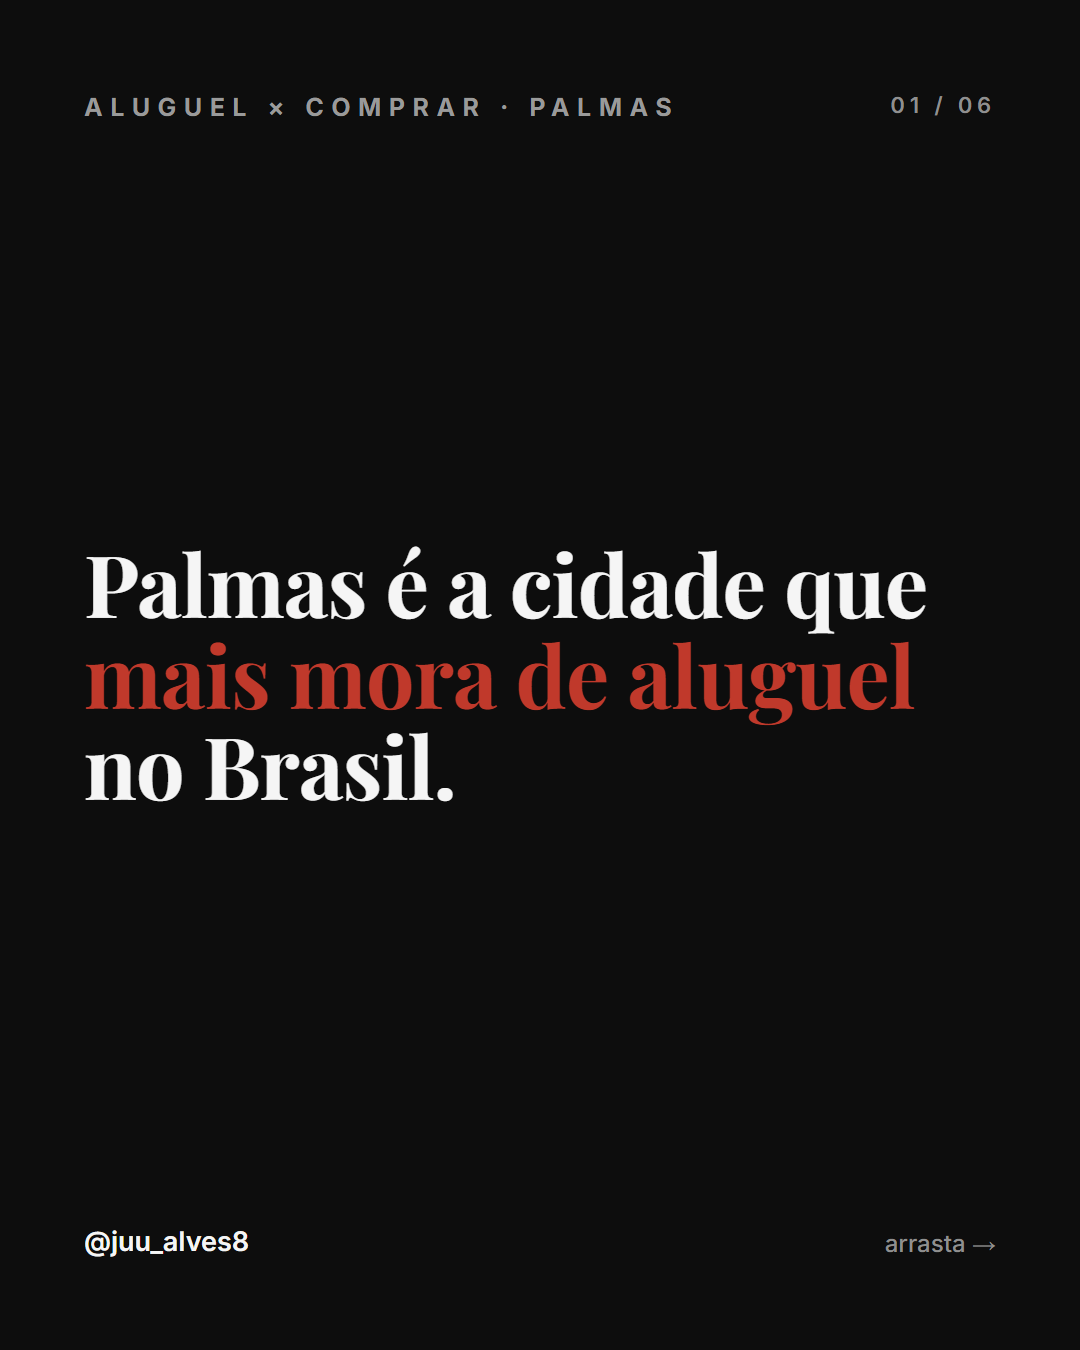
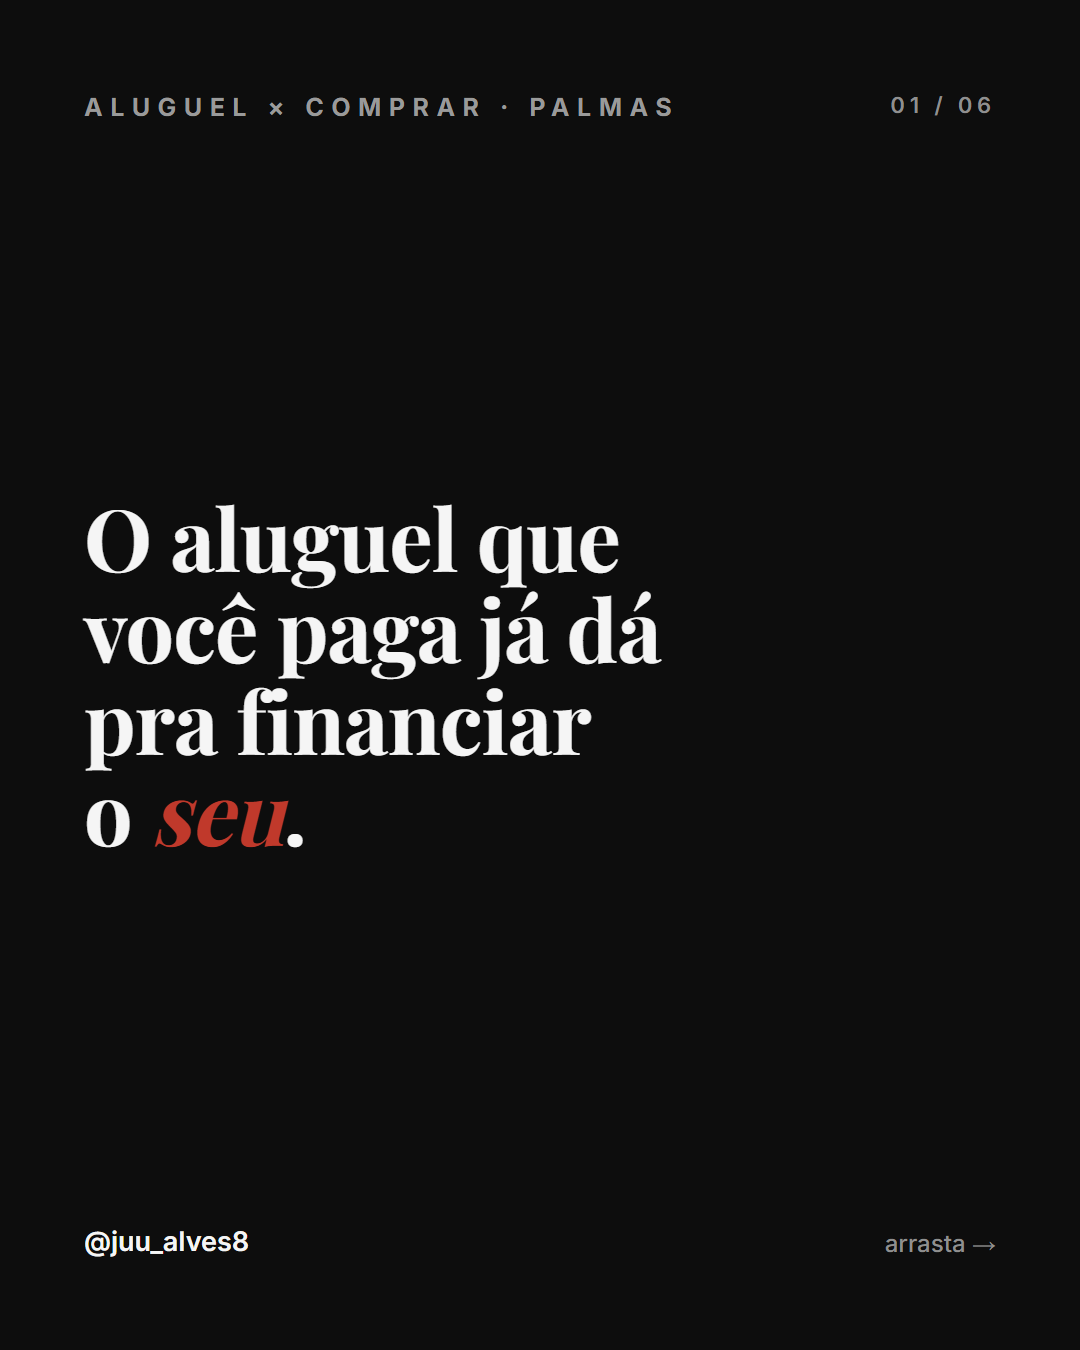
Carrossel #2 (planta pouca entrada) + Post #3 (mercado/barra de busca) + capa v1 revertida + pagina novos.html

Changed region(s): [[0.0611, 0.3733, 0.8556, 0.6533]]

diff --git a/marketing/site/carrossel/novos.html b/marketing/site/carrossel/novos.html
@@ -1,0 +1,66 @@
+<!DOCTYPE html>
+<html lang="pt-BR">
+<head>
+<meta charset="UTF-8">
+<meta name="viewport" content="width=device-width, initial-scale=1.0">
+<title>Novos conteúdos — Ju</title>
+<style>
+  *{margin:0;padding:0;box-sizing:border-box}
+  body{background:#0a0a0a;color:#f5f5f5;font-family:-apple-system,Segoe UI,Roboto,sans-serif;padding:34px 16px 80px}
+  .wrap{max-width:920px;margin:0 auto}
+  h1{font-size:23px;font-weight:700;text-align:center}
+  .top{color:#8f8f8f;font-size:13.5px;text-align:center;margin:6px auto 30px;max-width:560px;line-height:1.5}
+  .opt{background:#111;border:1px solid #222;border-radius:18px;padding:22px 16px;margin-bottom:26px}
+  .opt h2{font-size:18px;font-weight:700;margin-bottom:2px}
+  .opt .tag{font-size:12px;color:#8f8f8f;font-family:ui-monospace,Menlo,Consolas,monospace;margin-bottom:14px}
+  .feed{display:flex;gap:12px;overflow-x:auto;padding-bottom:14px;scroll-snap-type:x mandatory}
+  .feed a{flex:0 0 auto;scroll-snap-align:center;line-height:0}
+  .feed img{height:460px;width:auto;border-radius:12px;border:1px solid #262626;box-shadow:0 14px 40px rgba(0,0,0,.5)}
+  .single{display:flex;justify-content:center}
+  .single img{width:330px;border-radius:14px;border:1px solid #262626;box-shadow:0 18px 50px rgba(0,0,0,.5)}
+  .leg{font-size:13.5px;color:#cfcfcf;line-height:1.65;white-space:pre-wrap;background:#0d0d0d;border:1px solid #1f1f1f;border-radius:10px;padding:14px;margin-top:14px}
+  .hint{font-size:12px;color:#666;text-align:center;margin-top:8px}
+</style>
+</head>
+<body>
+<div class="wrap">
+  <h1>Novos conteúdos pra você ver</h1>
+  <p class="top">Carrossel #2 (comprar na planta) e o post de mercado. Toca e segura numa imagem pra salvar.</p>
+
+  <div class="opt">
+    <h2>Carrossel #2 — Comprar na planta com pouca entrada</h2>
+    <div class="tag">storytelling · 6 slides · pra quem quer morar</div>
+    <div class="feed">
+      <a href="planta/slide-01.png"><img src="planta/slide-01.png"></a>
+      <a href="planta/slide-02.png"><img src="planta/slide-02.png"></a>
+      <a href="planta/slide-03.png"><img src="planta/slide-03.png"></a>
+      <a href="planta/slide-04.png"><img src="planta/slide-04.png"></a>
+      <a href="planta/slide-05.png"><img src="planta/slide-05.png"></a>
+      <a href="planta/slide-06.png"><img src="planta/slide-06.png"></a>
+    </div>
+    <div class="leg">Comprar na planta assusta — até você entender como funciona.
+
+A entrada é parcelada durante a obra, os reforços entram em datas que você já sabe (13º, férias, bônus), e o imóvel ainda valoriza até a chave. Dá pra começar com bem menos do que parece.
+
+Quer ver como ficaria no seu caso? Toca no link da bio que eu te explico o passo a passo, sem compromisso.
+
+Manda esse pra quem acha que comprar é impossível. 👉
+
+#imoveispalmas #palmasto #comprarnaplanta #primeiroimovel #financiamento #palmastocantins</div>
+  </div>
+
+  <div class="opt">
+    <h2>Post #3 — Mercado de Palmas (investidor)</h2>
+    <div class="tag">post único · barra de busca · pra quem quer investir</div>
+    <div class="single"><a href="post.png"><img src="post.png"></a></div>
+    <div class="leg">Dinheiro parado perde. Imóvel em Palmas, não.
+
+A capital que mais aluga no Brasil tem demanda sobrando: 600+ imóveis no Airbnb com procura o ano todo, e bairros que valorizaram 9–14% em 2024. Quem tem imóvel ganha dos dois lados — valorização e renda.
+
+Pensando em parar de deixar dinheiro parado? Toca no link da bio ou me chama no direct — te mostro as melhores oportunidades de Palmas.
+
+#investimentoimobiliario #palmasto #imoveispalmas #airbnb #rendapassiva #palmastocantins</div>
+  </div>
+</div>
+</body>
+</html>

diff --git a/marketing/conteudo/Carrossel&post/feitos-claude/post-mercado-palmas-2026-06-16/post.html b/marketing/conteudo/Carrossel&post/feitos-claude/post-mercado-palmas-2026-06-16/post.html
@@ -1,0 +1,43 @@
+<!DOCTYPE html><html lang="pt-BR"><head><meta charset="UTF-8">
+<link href="https://fonts.googleapis.com/css2?family=Playfair+Display:wght@600;700;800&family=Inter:wght@300;400;500;600;700&display=swap" rel="stylesheet">
+<style>
+  *{margin:0;padding:0;box-sizing:border-box}
+  html,body{width:1080px;height:1350px;overflow:hidden}
+  .post{width:1080px;height:1350px;background:#0D0D0D;color:#F5F5F5;padding:96px 84px;display:flex;flex-direction:column;justify-content:space-between;font-family:'Inter',sans-serif;-webkit-font-smoothing:antialiased}
+  .kicker{font-size:24px;font-weight:700;letter-spacing:.3em;text-transform:uppercase;color:#9a9a9a}
+  .searchbar{display:flex;align-items:center;gap:18px;background:#F5F5F5;border-radius:60px;padding:26px 34px;margin-top:26px}
+  .searchbar svg{width:34px;height:34px;flex-shrink:0}
+  .searchbar .q{font-size:30px;font-weight:600;color:#141414;letter-spacing:.01em}
+  .searchbar .cursor{width:3px;height:34px;background:#C0392B;margin-left:auto;border-radius:2px}
+  .mid{flex:1;display:flex;flex-direction:column;justify-content:center}
+  .headline{font-family:'Playfair Display',serif;font-weight:700;font-size:78px;line-height:1.05;letter-spacing:-.01em}
+  .headline .hl{color:#C0392B}
+  .para{font-size:37px;font-weight:400;line-height:1.5;color:#cfcfcf;margin-top:34px}
+  .para b{color:#fff;font-weight:600}
+  .para .hl{color:#C0392B;font-weight:600}
+  .src{font-size:21px;color:#8f8f8f;font-weight:600;letter-spacing:.05em;text-transform:uppercase;margin-top:26px}
+  .foot{display:flex;justify-content:space-between;align-items:flex-end}
+  .handle{font-size:27px;font-weight:600}
+  .sig{font-size:19px;letter-spacing:.14em;color:#8f8f8f;text-transform:uppercase;text-align:right}
+</style></head>
+<body>
+<div class="post">
+  <div>
+    <div class="kicker">Mercado · Palmas — TO</div>
+    <div class="searchbar">
+      <svg viewBox="0 0 24 24" fill="none" stroke="#C0392B" stroke-width="2.2" stroke-linecap="round"><circle cx="11" cy="11" r="7"/><path d="M21 21l-3.8-3.8"/></svg>
+      <span class="q">imóveis em Palmas pra investir</span>
+      <span class="cursor"></span>
+    </div>
+  </div>
+  <div class="mid">
+    <h1 class="headline">Dinheiro parado perde.<br>Imóvel em Palmas, <span class="hl">não</span>.</h1>
+    <p class="para">A capital que mais aluga no Brasil tem demanda sobrando: <b>600+ imóveis no Airbnb</b> com procura o ano todo, e bairros que valorizaram <span class="hl">9–14% em 2024</span>. Quem tem imóvel ganha dos dois lados — valorização e renda.</p>
+    <div class="src">IBGE · Ademi-TO · Mercado local, 2024–25</div>
+  </div>
+  <div class="foot">
+    <span class="handle">@juu_alves8</span>
+    <span class="sig">Juliana Alves · CRECI 5377</span>
+  </div>
+</div>
+</body></html>

diff --git a/marketing/conteudo/Carrossel&post/feitos-claude/carrossel-planta-pouca-entrada-2026-06-16/style.css b/marketing/conteudo/Carrossel&post/feitos-claude/carrossel-planta-pouca-entrada-2026-06-16/style.css
@@ -1,0 +1,25 @@
+@import url('https://fonts.googleapis.com/css2?family=Playfair+Display:wght@500;600;700;800;900&family=Inter:wght@300;400;500;600;700;800&display=swap');
+*{margin:0;padding:0;box-sizing:border-box}
+html,body{width:1080px;height:1350px;overflow:hidden}
+.slide{width:1080px;height:1350px;padding:92px 84px;display:flex;flex-direction:column;justify-content:space-between;position:relative;font-family:'Inter',sans-serif;-webkit-font-smoothing:antialiased}
+.dark{background:#0D0D0D;color:#F5F5F5}
+.light{background:#F5F5F5;color:#141414}
+.counter{position:absolute;top:92px;right:84px;font-size:22px;letter-spacing:.22em;color:#8f8f8f;font-weight:600}
+.eyebrow{font-size:25px;font-weight:700;letter-spacing:.3em;text-transform:uppercase;color:#9a9a9a}
+.light .eyebrow{color:#6f6f6f}
+.main{flex:1;display:flex;flex-direction:column;justify-content:center}
+.rule{width:76px;height:4px;background:currentColor;opacity:.85;margin:34px 0;border:none}
+.title{font-family:'Playfair Display',serif;font-weight:700;line-height:1.06;letter-spacing:-.01em;font-size:86px}
+.title.sm{font-size:68px;line-height:1.12}
+.lead{font-family:'Playfair Display',serif;font-weight:600;font-size:60px;line-height:1.12}
+.body{font-size:41px;font-weight:400;line-height:1.42;color:#cfcfcf}
+.light .body{color:#3a3a3a}
+.body.lg{font-size:50px;line-height:1.34}
+.hl{color:#C0392B;font-weight:700}
+.light .hl{color:#C0392B;font-weight:700}
+.src{font-size:22px;color:#8f8f8f;font-weight:600;letter-spacing:.06em;text-transform:uppercase;margin-top:28px}
+.foot{display:flex;justify-content:space-between;align-items:flex-end}
+.handle{font-size:27px;font-weight:600}
+.sig{font-size:19px;letter-spacing:.14em;color:#8f8f8f;text-transform:uppercase;text-align:right}
+.light .sig{color:#777}
+.swipe{font-size:24px;color:#8f8f8f;font-weight:500}

diff --git a/marketing/conteudo/Carrossel&post/feitos-claude/carrossel-planta-pouca-entrada-2026-06-16/slide-2.html b/marketing/conteudo/Carrossel&post/feitos-claude/carrossel-planta-pouca-entrada-2026-06-16/slide-2.html
@@ -1,0 +1,16 @@
+<!DOCTYPE html><html lang="pt-BR"><head><meta charset="UTF-8"><link rel="stylesheet" href="style.css"></head>
+<body>
+<div class="slide light">
+  <div class="counter">02 / 06</div>
+  <div class="eyebrow">O que trava as pessoas</div>
+  <div class="main">
+    <p class="lead">Muita gente acha que precisa ter o valor todo na mão.</p>
+    <hr class="rule">
+    <p class="body lg"><span class="hl">Não precisa.</span> Na planta, o jogo é outro.</p>
+  </div>
+  <div class="foot">
+    <span class="handle">@juu_alves8</span>
+    <span class="sig">Juliana Alves · CRECI 5377</span>
+  </div>
+</div>
+</body></html>

diff --git a/marketing/conteudo/Carrossel&post/feitos-claude/carrossel-planta-pouca-entrada-2026-06-16/slide-3.html b/marketing/conteudo/Carrossel&post/feitos-claude/carrossel-planta-pouca-entrada-2026-06-16/slide-3.html
@@ -1,0 +1,15 @@
+<!DOCTYPE html><html lang="pt-BR"><head><meta charset="UTF-8"><link rel="stylesheet" href="style.css"></head>
+<body>
+<div class="slide dark">
+  <div class="counter">03 / 06</div>
+  <div class="eyebrow">Como funciona</div>
+  <div class="main">
+    <p class="lead">A entrada é <span class="hl">parcelada</span> — durante a obra.</p>
+    <p class="body" style="margin-top:18px">Você dilui em meses, no seu ritmo. Nada de juntar tudo de uma vez.</p>
+  </div>
+  <div class="foot">
+    <span class="handle">@juu_alves8</span>
+    <span class="sig">Juliana Alves · CRECI 5377</span>
+  </div>
+</div>
+</body></html>

diff --git a/marketing/conteudo/Carrossel&post/feitos-claude/carrossel-planta-pouca-entrada-2026-06-16/slide-4.html b/marketing/conteudo/Carrossel&post/feitos-claude/carrossel-planta-pouca-entrada-2026-06-16/slide-4.html
@@ -1,0 +1,15 @@
+<!DOCTYPE html><html lang="pt-BR"><head><meta charset="UTF-8"><link rel="stylesheet" href="style.css"></head>
+<body>
+<div class="slide light">
+  <div class="counter">04 / 06</div>
+  <div class="eyebrow">Os reforços (balões)</div>
+  <div class="main">
+    <p class="lead">E os "balões" entram em datas que você já sabe.</p>
+    <p class="body" style="margin-top:18px">Dá pra <span class="hl">planejar</span> com 13º, férias, bônus. Sem susto.</p>
+  </div>
+  <div class="foot">
+    <span class="handle">@juu_alves8</span>
+    <span class="sig">Juliana Alves · CRECI 5377</span>
+  </div>
+</div>
+</body></html>

diff --git a/marketing/conteudo/Carrossel&post/feitos-claude/carrossel-planta-pouca-entrada-2026-06-16/slide-5.html b/marketing/conteudo/Carrossel&post/feitos-claude/carrossel-planta-pouca-entrada-2026-06-16/slide-5.html
@@ -1,0 +1,15 @@
+<!DOCTYPE html><html lang="pt-BR"><head><meta charset="UTF-8"><link rel="stylesheet" href="style.css"></head>
+<body>
+<div class="slide dark">
+  <div class="counter">05 / 06</div>
+  <div class="eyebrow">O melhor</div>
+  <div class="main">
+    <p class="lead">Até a chave, o imóvel já <span class="hl">valoriza</span>.</p>
+    <p class="body" style="margin-top:18px">Você compra no preço de hoje e recebe lá na frente — já valendo mais.</p>
+  </div>
+  <div class="foot">
+    <span class="handle">@juu_alves8</span>
+    <span class="sig">Juliana Alves · CRECI 5377</span>
+  </div>
+</div>
+</body></html>

diff --git a/marketing/conteudo/Carrossel&post/feitos-claude/carrossel-planta-pouca-entrada-2026-06-16/slide-6.html b/marketing/conteudo/Carrossel&post/feitos-claude/carrossel-planta-pouca-entrada-2026-06-16/slide-6.html
@@ -1,0 +1,15 @@
+<!DOCTYPE html><html lang="pt-BR"><head><meta charset="UTF-8"><link rel="stylesheet" href="style.css"></head>
+<body>
+<div class="slide light">
+  <div class="counter">06 / 06</div>
+  <div class="eyebrow">Bora começar?</div>
+  <div class="main">
+    <h2 class="title sm">Quer ver como ficaria no seu caso?</h2>
+    <p class="body" style="margin-top:30px">Toca no <span class="hl">link da bio</span> — te explico o passo a passo, sem compromisso.</p>
+  </div>
+  <div class="foot">
+    <span class="handle">@juu_alves8</span>
+    <span class="sig">Juliana Alves · CRECI 5377</span>
+  </div>
+</div>
+</body></html>

diff --git a/marketing/conteudo/Carrossel&post/feitos-claude/carrossel-planta-pouca-entrada-2026-06-16/legenda.md b/marketing/conteudo/Carrossel&post/feitos-claude/carrossel-planta-pouca-entrada-2026-06-16/legenda.md
@@ -1,0 +1,9 @@
+Comprar na planta assusta — até você entender como funciona.
+
+A entrada é parcelada durante a obra, os reforços entram em datas que você já sabe (13º, férias, bônus), e o imóvel ainda valoriza até a chave. Dá pra começar com bem menos do que parece.
+
+Quer ver como ficaria no seu caso? Toca no link da bio que eu te explico o passo a passo, sem compromisso.
+
+Manda esse pra quem acha que comprar é impossível. 👉
+
+#imoveispalmas #palmasto #comprarnaplanta #primeiroimovel #financiamento #palmastocantins

diff --git a/marketing/conteudo/Carrossel&post/feitos-claude/post-mercado-palmas-2026-06-16/legenda.md b/marketing/conteudo/Carrossel&post/feitos-claude/post-mercado-palmas-2026-06-16/legenda.md
@@ -1,0 +1,7 @@
+Dinheiro parado perde. Imóvel em Palmas, não.
+
+A capital que mais aluga no Brasil tem demanda sobrando: 600+ imóveis no Airbnb com procura o ano todo, e bairros que valorizaram 9–14% em 2024. Quem tem imóvel ganha dos dois lados — valorização e renda.
+
+Pensando em parar de deixar dinheiro parado? Toca no link da bio ou me chama no direct — te mostro as melhores oportunidades de Palmas.
+
+#investimentoimobiliario #palmasto #imoveispalmas #airbnb #rendapassiva #palmastocantins